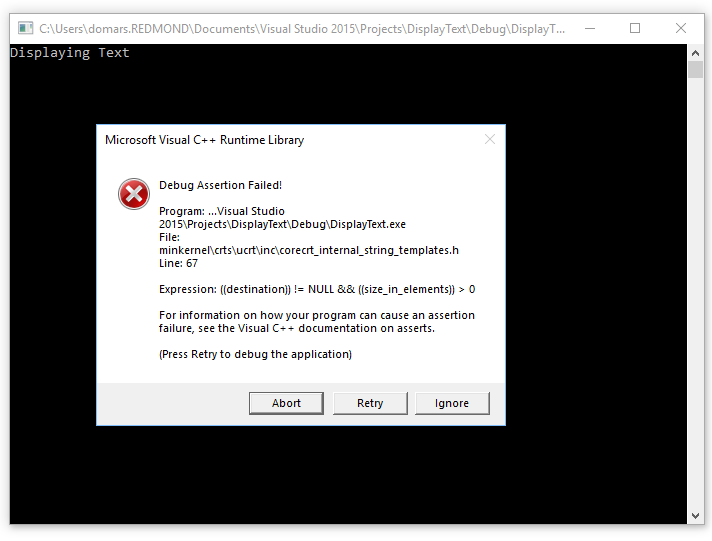
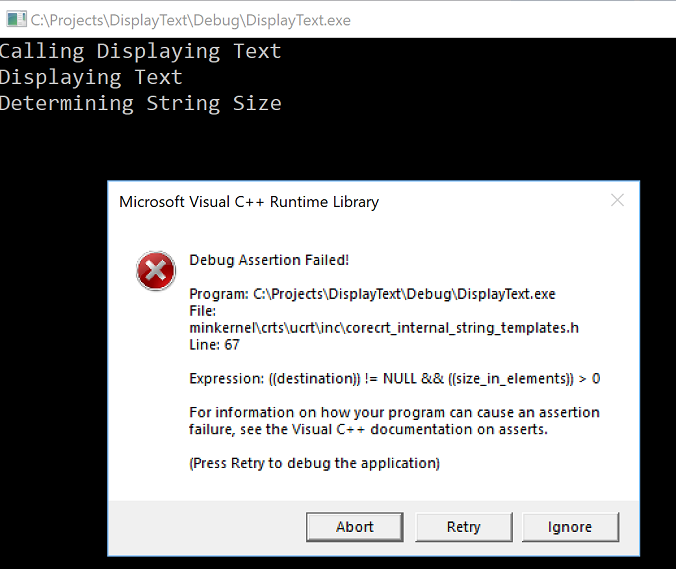
Working on TTD Walkthrough

diff --git a/windows-driver-docs-pr/debugger/time-travel-debugging-walkthrough.md b/windows-driver-docs-pr/debugger/time-travel-debugging-walkthrough.md
@@ -20,7 +20,7 @@ This lab introduces Time Travel Debugging (TTD), using a small sample program wi
 
 1. Capture a time travel trace of the failed program.
 2. Use the dx command to determine the exception event stored in the recording. 
-3. Step back in the trace to the exception event.
+3. Use time travel to postion the trace at the exception event.
 4. From that point in the trace single step backwards until the faulting code in question comes into scope.
 5. With the faulting code in scope, look at the local values and develop a hypothesis of a variable that may contain an incorrect value.
 6. Determine the memory address of the variable with the incorrect value.
@@ -36,10 +36,10 @@ Although the general techniques included in this procedure apply to a broad set 
 
 ## <span id="Lab_objectives"></span><span id="lab_objectives"></span><span id="LAB_OBJECTIVES"></span>Lab objectives
 
-After completing this lab you will be able to use the general procedure with a time travel trace to locate issues in code. 
+After completing this lab, you will be able to use the general procedure with a time travel trace to locate issues in code. 
+
 
 ## <span id="Lab_setup"></span><span id="lab_setup"></span><span id="LAB_SETUP"></span>Lab setup
-
 
 You will need the following hardware to be able to complete the lab.
 
@@ -53,8 +53,8 @@ You will need the following software to be able to complete the lab.
 The lab has the following three sections.
 
 -   [Section 1: Build the sample code](#build)
--   [Section 2: Record a trace of the sample "DisplayText" code](#record)
--   [Section 3: Analyze the trace file recording to indentify the code issue](#analyze)
+-   [Section 2: Record a trace of the "DisplayText" sample](#record)
+-   [Section 3: Analyze the trace file recording to identify the code issue](#analyze)
 
 
 ## <span id="build"></span>Section 1: Build the sample code
@@ -84,9 +84,16 @@ The lab has the following three sections.
 
 int DetermineStringSize()
 {
-                // ToDo Implement String size - for now all supported strings are 15.
-                int buffsize = 15;
-                return buffsize;
+       printf("Determining String Size \n");
+       // ToDo Implement String size - for now all supported strings are 15.
+       int buffsize = 15;
+       int WideCharBuffSize = 4;
+       int CharBuffSizeFactor = 2;
+       int NarrowCharBuffSize = WideCharBuffSize/CharBuffSizeFactor;
+       char NotNull = ' ';
+       char VeryNull = NULL;
+       char ExtraSpace = NotNull;
+       return buffsize;
 }
 
 int DisplayText()
@@ -102,6 +109,7 @@ int DisplayText()
 
 int main()
 {
+    printf("Calling Displaying Text \n");
     DisplayText();
                 return 0;
 }
@@ -116,26 +124,34 @@ int main()
 
     In the Solution Explorer, right click on the *DisplayText* project and select **Open Folder in File explorer**.
     
-    Navigate to the Debug folder that contains the complied exe and symbol pdb file for the sample. For example, you would navigate to *C:\Users\UserName\Documents\Visual Studio 2017\Projects\DisplayText\Debug*, if that's the folder that your projects are stored in. 
+    Navigate to the Debug folder that contains the complied exe and symbol pdb file for the sample. For example, you would navigate to *C:\Projects\DisplayText\Debug*, if that's the folder that your projects are stored in. 
 
 5. **Run the sample app with the code flaw**
 
     Click on the exe file to run the sample app.
 
-    ![Screen Shot of faulting app dialog box](images/ttd-time-travel-walkthrough-faulting-app-dialog-box.png) 
 
-    Click on **Ignore**, to see if our app will make any forward progress.
+    ![Faulting app dialog box](images/ttd-time-travel-walkthrough-faulting-app-dialog-box.png) 
+
+
+    Click on **Retry**, to see if our app will make any forward progress.
+
+    If this dialog box appears, select **Close program**
+
+
+   ![Faulting app dialog box](images/ttd-time-travel-walkthrough-program-not-working-dialog-box.png) 
     
-    In the next section of the walkthrough, we will record the execution of the sample app to see if we can determine why this exception is occuring. 
+    
+    In the next section of the walkthrough, we will record the execution of the sample app to see if we can determine why this exception is occurring. 
 
 
-## <span id="record"></span>Section 2: Record a trace of the sample "DisplayText" code
+## <span id="record"></span>Section 2: Record a trace of the "DisplayText" sample
 
-*In Section 2, you will record a trace of the misbeavhing sample "DisplayText" app*
+*In Section 2, you will record a trace of the misbehaving sample "DisplayText" app*
 
 To launch the sample app and record a TTD trace, follow these steps. For general information about recording TTD traces, see [Time Travel Debugging - Record a trace](time-travel-debugging-record.md)
 
-1. Run WinDbg Preview as and Administrator, so as to be able to record time travel traces.
+1. Run WinDbg Preview as an Administrator, so as to be able to record time travel traces.
 
 2. In WinDbg Preview, select **File** > **Start debugging** > **Launch executable (advanced)**.
 
@@ -144,17 +160,18 @@ To launch the sample app and record a TTD trace, follow these steps. For general
 
     ![Screen shot of WinDbg Preview showing start recording checkbox in launch executable (advanced) screen](images/ttd-time-travel-walkthrough-recording-app.png)
 
+
 4. Check the **Record process with Time Travel Debugging** box to record a trace when the executable is launched. 
 
 5. Click **OK** to launch the executable and start recording. 
 
 6. The recording dialog appears indicating the trace is being recorded. Shortly after that, the application crashes.
 
-7. Click on **Retry**, to allow the exception handling code to run.
+7. Click on **Retry**, to allow the code to try and run.
 
 8. The program crashes and the trace file will be closed and written out to disk. 
 
-   ![Screen shot of WinDbg Preview showing output with 16/16 keyframes indexed](images/ttd-time-travel-walkthrough-windbg-indexed-frames.png)
+   ![Screen shot of WinDbg Preview showing output with 10/16 keyframes indexed](images/ttd-time-travel-walkthrough-windbg-indexed-frames.png)
 
 9. The debugger will automatically index the trace file. Indexing allows for more accurate and faster memory value look ups. This indexing process will take longer for larger trace files.
 
@@ -176,9 +193,9 @@ To launch the sample app and record a TTD trace, follow these steps. For general
 In the next section of this lab we will analyze the trace file to locate the issue with our code.
 
 
-## <span id="analyze"></span>Section 3: Analyze the trace file recording to indentify the code issue
+## <span id="analyze"></span>Section 3: Analyze the trace file recording to identify the code issue
 
-*In Section 3, you will analyze the trace file recording to indentify the code issue.*
+*In Section 3, you will analyze the trace file recording to identify the code issue.*
 
 **Configure the WinDbg Environment**
 
@@ -199,7 +216,7 @@ In the next section of this lab we will analyze the trace file to locate the iss
 
 **Examine the exception**
 
-1. When the trace file was loaded is displays information that exception ocurred. 
+1. When the trace file was loaded is displays information that exception occurred. 
 
     ```
     (2b2c.2bbc): Break instruction exception - code 80000003 (first/second chance not available)
@@ -258,7 +275,7 @@ In the next section of this lab we will analyze the trace file to locate the iss
     source_it = 0xcccccccc "--- memory read error at address 0xcccccccc ---"
     ```
 
-    The output shows that there is likley a problem with the destination_it and source\_it.
+    The output shows that there is likely a problem with the destination_it and source\_it.
 
 2. Looking at our code, it looks like the exception may be caused by the bad parameters being passed to the wcscpy_s in this line of code.
 
@@ -266,7 +283,7 @@ In the next section of this lab we will analyze the trace file to locate the iss
     wcscpy_s(buffer, size, message);
     ```
 
-3. To invetsigate further we will set a breakpoint by clicking on the wcscpy_s line in the source Window.
+3. To investigate further we will set a breakpoint by clicking on the wcscpy_s line in the source window.
 
   ![Screen shot of source Window showing breakpoint set on wcscpy_s](images/ttd-time-travel-walkthrough-source-window-breakpoint.png)
 
@@ -274,7 +291,13 @@ In the next section of this lab we will analyze the trace file to locate the iss
 4. Use g- to travel back until the breakpoint is hit.
 
    ```
-    
+   Breakpoint 0 hit
+   Time Travel Position: 5B:AF
+   eax=0000000f ebx=00c20000 ecx=00000000 edx=00000000 esi=013a1046 edi=00effa60
+   eip=013a17c1 esp=00eff970 ebp=00effa60 iopl=0         nv up ei pl nz na po nc
+   cs=0023  ss=002b  ds=002b  es=002b  fs=0053  gs=002b             efl=00000202
+   DisplayText!DisplayText+0x41:
+   013a17c1 8bf4            mov     esi,esp
    ```
 
 
@@ -288,10 +311,10 @@ In the next section of this lab we will analyze the trace file to locate the iss
  
    ```
 
-7. Looking at the value of *size* it is 0xf - 15 and our string looks to be 32 in length, so this looks like the reason that the wscpy is failing. But how did *size* get set to 15? To answer that question we will set an addtional break on access breakpoint. 
+7. Looking at the value of *size* it is 0xf - 15 and our string looks to be 32 in length, so this looks like the reason that the wscpy is failing. But how did *size* get set to 15? To answer that question, we will set an break on memory access breakpoint. 
 
     > [!NOTE]
-    > In this very small sample it would be pretty easy to just look in the code, but if there are hunderds of lines of code and dozens of subroutines the techniques described here can be used to decrease the time necessary to locate  the issue.
+    > In this very small sample it would be pretty easy to just look in the code, but if there are hundreds of lines of code and dozens of subroutines the techniques described here can be used to decrease the time necessary to locate the issue.
 
 
 **TTD and breakpoints**
@@ -337,17 +360,19 @@ ba <access> <size> <address> {options}
 Note that you can only set four data breakpoints at any given time and it is up to you to make sure that you are aligning your data correctly or you won’t trigger the breakpoint (words must end in addresses divisible by 2, dwords must be divisible by 4, and quadwords by 0 or 8).
 
 
-1.  Use the **x** command to examine the symbols associated with *size*. 
+**Setting the break on access breakpoint for the size variable**    
+
+1.  Use the **dx** command to examine the symbols associated with *size*. 
 
     ```
-    0:000> x size
+    0:000> dx &size
     0053fdd4          size = 0xf
     ```
 
     In this trace *size* is located in memory at 0053fdd4. 
 
 
-2.  First clear the existing breakpoints, the set the breakpoint with the **ba** command using the address we want to monitor. Lastly use **bl** to list the breakpoinst to confirm they are set as intended.
+2.  First clear the existing breakpoints, then set the memory access breakpoint with the **ba** command using the address we want to monitor. Lastly use **bl** to list the breakpoints to confirm they are set as intended.
 
     ```
     0:000> bc *
@@ -379,7 +404,7 @@ Note that you can only set four data breakpoints at any given time and it is up 
  
    ```
 
-4. Single step backwards until the faulting code in question comes into scope. In this case, we can use p- command to travel back one step.
+4. Single step backwards until the faulting code in question comes into scope. In this case, we can use p- command to travel back one step as the breakpoint leaves us one step after the code of interest has executed.
 
     ```
     0:000> p-
@@ -396,19 +421,33 @@ Note that you can only set four data breakpoints at any given time and it is up 
     ```
     size_t size = DetermineStringSize();
     ```
-    In this line of code we see that *size* is set by calling DetermineStringSize(). To dig deeper we will need to set an addtional breakpoint.
+    In this line of code we see that *size* is set by calling DetermineStringSize(). 
 
-    If our code was more complex we could set a breakpoint to locate everytime the DetermineStringSize function was called. 
+8.  We will use a similar approach to find the address of the DisplayText!DetermineStringSize function, and set a breakpoint on memory access. Because the function will just be read from memory for execution, we need to set a r - read breakpoint.
 
     ```
-    0:000> x DisplayText!DetermineStringSize
+    0:000> dx &DisplayText!DetermineStringSize
     00d41f60          DisplayText!DetermineStringSize (void)
-    0:000> ba w4 00d41f60
+    0:000> bc * 
+    0:000> ba r4 00d41f60
     0:000> bl
-     0 e Disable Clear  00d41f60 w 4 0001 (0001)  0:**** DisplayText!DetermineStringSize
+     0 e Disable Clear  00d41f60 r 4 0001 (0001)  0:**** DisplayText!DetermineStringSize
     ```
 
-    For this walkthrough we will assume it is only called once and turn our attention to the last line of code in the DetermineStringSize function.
+9.  Use g- command to travel back in time until the breakpoint is hit.
+
+    ```
+    0:000> g-
+    Breakpoint 0 hit
+    Time Travel Position: 5B:92
+    eax=0000000f ebx=003db000 ecx=00000000 edx=00cc1a6c esi=00d41046 edi=0053fde8
+    eip=00d4174a esp=0053fcf8 ebp=0053fde8 iopl=0         nv up ei pl nz ac pe nc
+    cs=0023  ss=002b  ds=002b  es=002b  fs=0053  gs=002b             efl=00000216
+    DisplayText!DisplayText+0x3a:
+    00d4174a c745e000000000  mov     dword ptr [ebp-20h],0 ss:002b:0053fdc8=cccccccc
+    ``'
+
+9. As the DetermineStringSize function is not large, we could just look at the code to find the issue. If this was a large function, we could look at the last line of code that returns the final value to see how that value is set.
 
     ```
     return buffsize;
@@ -416,33 +455,39 @@ Note that you can only set four data breakpoints at any given time and it is up 
     
     This is where the incorrect value of 0xf is returned, but how did buffsize get set to the incorrect value? We can set another breakpoint to find out.
 
-8.  Use the **x** command to examine  *buffsize*. 
+8.  Use the **dx** command to examine  *buffsize*. 
 
     ```
-    0:000> x buffsize
+    0:000> dx &buffsize
     0053fde0          buffsize = 0n13923792
     ```
 
     In this trace, *buffsize* is located in memory at 0053fdd4. 
 
 
-9.  Set the breakpoint with the **ba** command using the address we want to monitor. 
+9.  Set the breakpoint with the **ba** command using the address we now want to monitor. 
 
     ```
+    bc *
     ba w4 0053fde0 
     ```
-     
-      
+           
 
 10. Use g- to run back to point of memory access of the suspect buffsize variable.
 
    ```
-
+   0:000> g-
+   Breakpoint 0 hit
+   Time Travel Position: 5B:9C
+   eax=cccccccc ebx=002b1000 ecx=00000000 edx=68d51a6c esi=013a1046 edi=001bf7d8
+   eip=013a1735 esp=001bf6b8 ebp=001bf7d8 iopl=0         nv up ei pl nz na po nc
+   cs=0023  ss=002b  ds=002b  es=002b  fs=0053  gs=002b             efl=00000202
+   DisplayText!DetermineStringSize+0x25:
+   013a1735 c745ec04000000  mov     dword ptr [ebp-14h],4 ss:002b:001bf7c4=cccccccc
    ```
       
 
-11. It looks like we have found the root cause. The ToDo comment indicates that the string size has not been implmented and only 15 (0xf) is returned.
-If some other variable sets the value in the first variable, set another break on access breakpoint on the second variable. 
+11. It looks like we have found the root cause. The ToDo comment indicates that the string size has not been implemented and 15 (0xf) is always returned.
 
    ```
    // ToDo Implement String size - for now all supported strings are 15.
@@ -451,7 +496,9 @@ If some other variable sets the value in the first variable, set another break o
 
 **Summary**      
 
-In this very small sample the issue could have been determined by looking at the few lines of code, but in larger programs the techniques presented here can be used to decrease the time necessary to locate an issue. Once a trace is recorded, the trace and repro steps can be shared and the issue will be possibel to reproduce on demand, on different PCs.  
+In this very small sample the issue could have been determined by looking at the few lines of code, but in larger programs the techniques presented here can be used to decrease the time necessary to locate an issue. 
+
+Once a trace is recorded, the trace and repro steps can be shared, and the issue will be reproducible on demand.  
 
 
 ---
@@ -459,6 +506,12 @@ In this very small sample the issue could have been determined by looking at the
 ## See Also
 
 [Time Travel Debugging - Overview](time-travel-debugging-overview.md)
+
+[Time Travel Debugging - Recording](time-travel-debugging-record.md)
+
+[Time Travel Debugging - Replay a trace](time-travel-debugging-replay.md)
+
+[Time Travel Debugging - Working with trace files](time-travel-debugging-trace-file-information.md)
 
 ---
 
